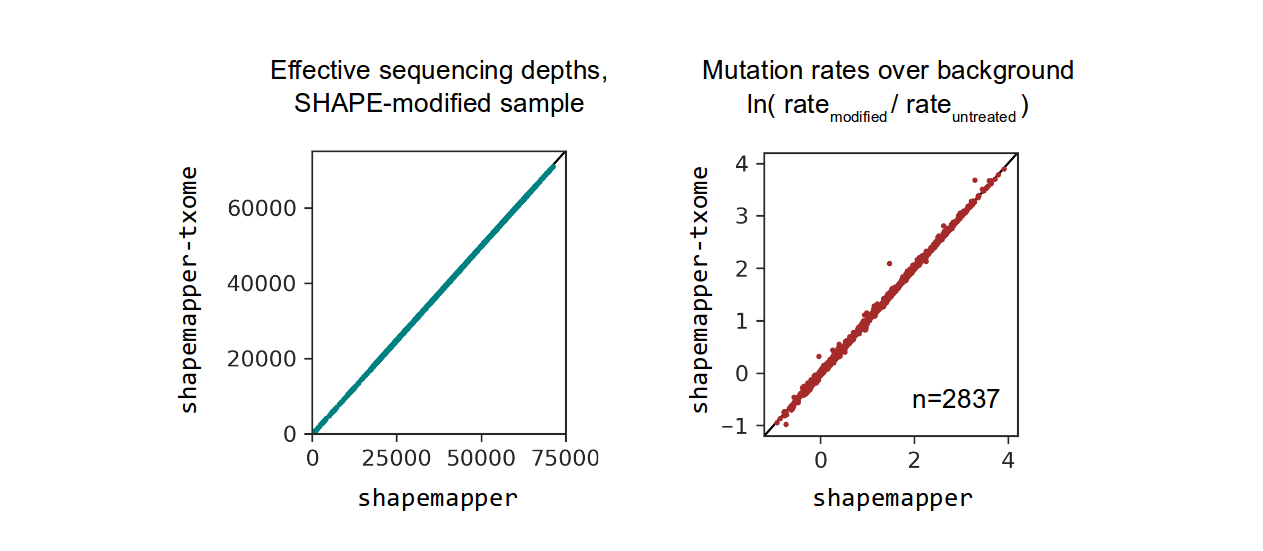
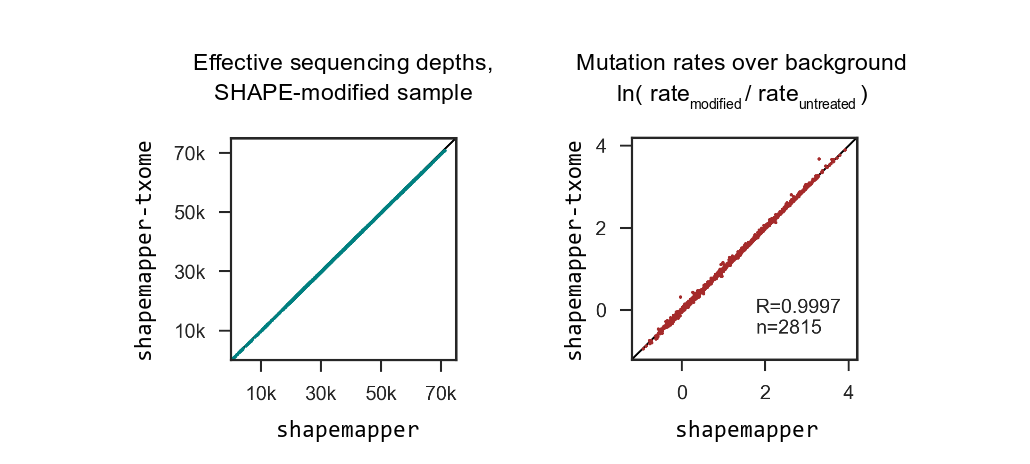
image. readme

diff --git a/README.md b/README.md
@@ -27,10 +27,13 @@ on large datasets.
 
 On a dataset from extracted _E. coli_ ribosomes modified
 with the SHAPE reagent 1-methyl-7-nitroisatoic anhydride (1M7),
-`kallisto-txome` produces nearly identical mutation rates above
+`shapemapper-txome` produces nearly identical mutation rates above
 background and effective read depths as running `shapemapper`
-directly. Values shown are from the large subunit (2837 nucleotides
-shown). Diagonal lines are drawn with a slope of 1.
+directly. Values shown are from the large subunit. 
+Diagonal lines are drawn with a slope of 1 (fit line not shown).
+
+Total read depths are slightly lower using `shapemapper-txome` versus
+`shapemapper` (0.40% and 0.53% in modified and untreated samples, respectively).
 
 ## Dependencies
 
